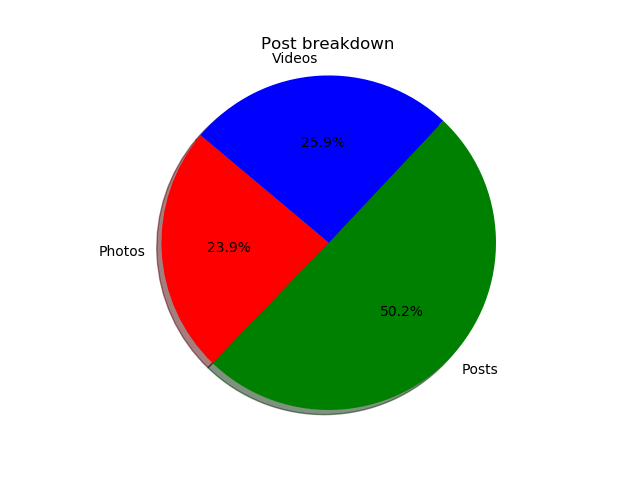
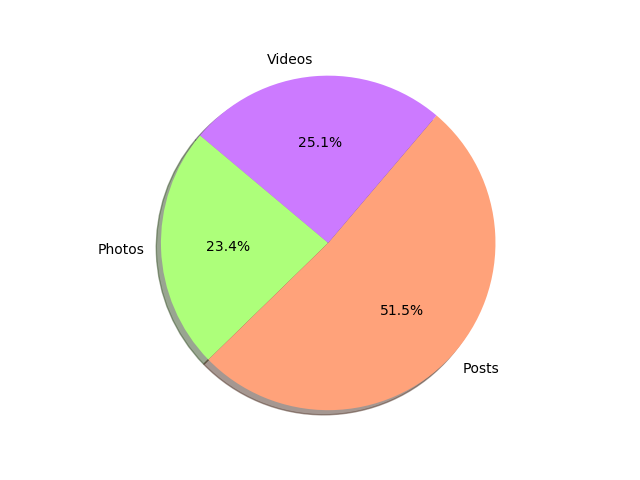
final

diff --git a/flask/app/templates/home.html b/flask/app/templates/home.html
@@ -5,24 +5,82 @@
         <div class = "container">
             <div class="row">
                 <div class = "col-8 text-left">
-                    <h1 class="text-left">Facebook Page Data Analysis</h1>
+                    <h1 class="text-left text-dark">Facebook Page Data Analysis</h1>
                     <br>
-                    <h5 class="text-left">leveraging Python and pandas for in depth analysis of a facebook page</h5>
-                    <h5 class="text-left">Understanding a page using different data, post type breakdown, engagement by month breakdown and etc</h5>
-                    <!-- <ul><h5>list</h5>
+                    <h5 class="text-left text-secondary">Leveraging Python for in depth analysis of a facebook page</h5>
+                    <br>
+                    <h5 class="text-secondary">Understanding a page using </h5>
+                    <br>
+                    <ul>
+                    	<Li><h5 class="text-left text-secondary">Post type break down</h5></Li>
+                        <br>
+                    	<Li><h5 class="text-left text-secondary">Engagement by month</h5></Li>
+                    	
                     </ul>
-                    	<Li>asdsad</Li>
-                    	<Li>asdsad</Li>
-                    	<Li>asdsad</Li>
-                    	<Li>asdsad</Li> -->
 
                 </div>
                 <div class = "col-4 ">
                     <img src="{{url_for('static', filename='fb.png')}}" class="img-responsive fit-image float-right">
-                </div>
-               
-                    
+                </div>     
             </div>
+
         </div>
+
     </header>
+
+    <div class="container">
+        <div class="row align-items-center row-content">
+                <div class="media">
+                    
+                    <div class = "col-12 col-sm-4 col-md-3">
+                        <h3>See through the trend</h3>
+                    </div>
+                    <div class="media-body">
+                        <div class = "col col-sm col-md">
+                            <h2>Post Type Breakdown </h2>
+                            <p>Understand what types of posts the account post more, get hints on the next popular format of media. Is it going to be pure text, photo or video? </p>
+                        </div>
+                    </div>
+                    <img class="d-flex mr-3 img-thumbnail align-self-center img-fluid col-3" src = "{{url_for('static', filename='images/ex1.png')}}">
+
+                </div>
+            </div>
+
+            <div class="row align-items-center row-content">
+                <div class="media">
+                    
+                    
+                    <div class = "col-12 col-sm-4 col-md-3">
+                        <h3>Understand your stats</h3>
+                    </div>
+                    <div class="media-body">
+                        <div class = "col col-sm col-md">
+                            <h2>Engagement Rate <span class="badge badge-danger">Hot</span></h2>
+                            <p>Compare your page to another brand's page and see who does it better. Understand the competition using the amount of likes, comments and shares received </p>
+                        </div>
+                    </div>
+                    <img class="d-flex mr-3 img-thumbnail align-self-center img-fluid col-3" src = "{{url_for('static', filename='images/ex2.png')}}">
+
+                </div>
+            </div>
+
+            <div class="row align-items-center row-content">
+                <div class="media">
+                    
+                    
+                    <div class = "col-12 col-sm-4 col-md-3">
+                        <h3>Compete with other brands</h3>
+                    </div>
+                    <div class="media-body">
+                        <div class = "col col-sm col-md">
+                            <h2>Data Comparision <span class="badge badge-primary">New</span></h2>
+                            <p>Compare your page to another brand's page and see who does it better. Understand the competition using the amount of likes, comments and shares received </p>
+                        </div>
+                    </div>
+                    <img class="d-flex mr-3 img-thumbnail align-self-center img-fluid col-3" src = "{{url_for('static', filename='images/ex3.png')}}">
+
+                </div>
+            </div>
+
+    </div>
 {% endblock %}

diff --git a/flask/app/templates/base.html b/flask/app/templates/base.html
@@ -1,10 +1,6 @@
 <html>
     <head>
-        {% if title %}
-        <title>{{ title }} - microblog</title>
-        {% else %}
-        <title>microblog</title>
-        {% endif %}
+        <title>FB Scrapper</title>
         <link rel="stylesheet" href="https://cdn.pydata.org/bokeh/release/bokeh-1.0.4.min.css" type="text/css" />
         <link rel="stylesheet" href="{{ url_for('static', filename='css/style.css') }}">
         <link rel="stylesheet" href="{{ url_for('static', filename='css/bootstrap.css') }}">
@@ -30,7 +26,7 @@
             <a href="/activity">Linkedin</a>
             <a href="/graphs">About</a>
         </div> -->
-        <nav class="navbar navbar-expand-lg navbar-light bg-secondary text-white">
+        <nav class="navbar navbar-expand-lg navbar-light text-white">
 
           <a class="navbar-brand" href="/">  Facebook Data Analysis </a>
           <button class="navbar-toggler" type="button" data-toggle="collapse" data-target="#navbarSupportedContent" aria-controls="navbarSupportedContent" aria-expanded="false" aria-label="Toggle navigation">
@@ -46,12 +42,12 @@
               </li>
 
               <li class="nav-item">
-                <a class="nav-link text-white" href="#">Multiple Accounts</a>
+                <a class="nav-link text-white" href="/multiple">Multiple Accounts</a>
               </li>
 
             </ul>
 
-            <p class="my-2 my-lg-0">Made by Anthony and Christian</p>
+            <p class="my-2 my-lg-0">Made by Christian and Anthony</p>
 
 
 

diff --git a/flask/app/templates/multiple.html b/flask/app/templates/multiple.html
@@ -1,0 +1,55 @@
+{% extends "base.html" %}
+{% block content %}
+
+<div  class = "text-dark">
+    <div id="loading">
+        <div class="container">
+            <div class="text-center">
+                <IMG SRC="{{url_for('static', filename='loading.gif')}}" class = "img-fluid"id = "load-img">
+            </div>
+        </div>
+    </div>
+    <div id="content">
+        <h1>Multiple Account Comparison</h1>
+
+        <br>
+
+        <br>
+        
+
+        <form action="" method="post" novalidate>
+            {{ form.hidden_tag() }}
+            <p>
+                
+                {{ form.date(size=32) }}<br>
+                <br>
+                {{ form.date(size=32) }}<br>
+                <br>
+                {{ form.date(size=32) }}<br>
+            </p>
+            <div onclick="submit()">
+                <button type=submit class="btn btn-outline-success" >submit
+                </button>
+            </div>
+        </form>
+
+        <br>
+
+        <img src="{{url_for('static', filename='fb.png')}}" class="center" />
+
+
+    </div>
+
+    <p></p>
+    <br>
+    <br>
+    <br>
+    <br>
+    <br>
+    <br>
+
+</div>
+
+    	
+
+{% endblock %}

diff --git a/flask/app/templates/FB_result.html b/flask/app/templates/FB_result.html
@@ -3,11 +3,12 @@
 {% block content %}
 
 
-	<h1>The message is the following</h1>
-	<h3>{{info}}</h3>
+	<h1 class="text-dark">Data result for</h1>
+	<h3 class="text-secondary">{{info}}</h3>
+	<img src="{{url_for('static', filename='images/likes.png')}}" class="center" />
 	<img src="{{url_for('static', filename='images/comments_shares.png')}}" class="center" />
-	<img src="{{url_for('static', filename='images/ex2.png')}}" class="center" />
-	<img src="{{url_for('static', filename='images/ex3.jpg')}}" class="center" />
+	<img src="{{url_for('static', filename='images/post_type_breakdown.png')}}" class="center" />
+	
 	
 
 

diff --git a/flask/app/static/css/style.css b/flask/app/static/css/style.css
@@ -73,8 +73,25 @@ object-fit: cover;
 height: 300px; /* only if you want fixed height */
 }
 
+.navbar-light {
+  background-color: #28a3e0
+}
 
 
+
+.row-content {
+    margin:0px auto;
+    padding: 50px 0px 50px 0px;
+    border-bottom: 1px ridge;
+    min-height:400px;
+}
+
+.content {
+    padding: 5%;
+    padding-top: 0%;
+    padding-left: 10%;
+    padding-right: 10%;
+}
 
 
 

diff --git a/flask/app/FB_scrape.py b/flask/app/FB_scrape.py
@@ -22,7 +22,7 @@ def scrape(link):
     print("Scrapping!!!")
 
     chrome_options = selenium.webdriver.ChromeOptions()
-    chrome_options.add_argument('--headless')
+    # chrome_options.add_argument('--headless')
     chrome_options.add_argument('--no-sandbox')
     chrome_options.add_argument('--disable-dev-shm-usage')
     browser = Chrome('app/chromedriver', options=chrome_options) 
@@ -34,7 +34,7 @@ def scrape(link):
     print("=====Done loading=====")
 
 
-    t_end = time.time() + 1*5
+    t_end = time.time() + 1*90
     while time.time() < t_end:
         browser.execute_script("window.scrollTo(0,document.body.scrollHeight);")
         time.sleep(2)
@@ -103,12 +103,29 @@ def scrape(link):
     df= pd.DataFrame({"date":date,"content_type":content_type, "likes":likes, "comments":comments, "shares":shares})
 
     df.date = pd.to_datetime(df.date)
-    # df.likes = pd.to_numeric(df.likes)
+    df.likes = pd.to_numeric(df.likes)
     df.comments = pd.to_numeric(df.comments.str[0])
     df.shares = pd.to_numeric(df.shares.str[0])
     df.fillna(0, inplace = True)
 
     df = df[df.date.dt.year==2019]
+
+
+    post_data = df
+    num_photo = post_data.groupby('content_type').content_type.count()[0]
+    num_post = post_data.groupby('content_type').content_type.count()[1]
+    num_video = post_data.groupby('content_type').content_type.count()[2]
+    labels = ['Photos', 'Posts', 'Videos']
+    sizes = [num_photo, num_post, num_video]
+    colors = ['#86ffd5', '#ffd586', '#ff86d9']
+    explode = (0, 0, 0)
+    # plt.title('Post breakdown')
+    plt.pie(sizes, explode=explode, labels=labels, colors=colors,
+    autopct='%1.1f%%', shadow=True, startangle=140)
+    plt.axis('equal')
+    plt.savefig('app/static/images/post_type_breakdown.png')
+    plt.clf()
+
 
 
     df.groupby(df.date.dt.month).sum()[["comments","shares"]].plot()
@@ -117,6 +134,13 @@ def scrape(link):
     plt.ylabel("Amount", size=15);
 
     plt.savefig("app/static/images/comments_shares.png")
+    plt.clf()
+
+    df.groupby(df.date.dt.month).sum()[["likes"]].plot()
+    plt.title("Total likes by Month", size=15)
+    plt.xlabel("Month", size=15)
+    plt.ylabel("# Likes", size=15);
+    plt.savefig("app/static/images/likes.png")
     plt.clf()
 
 

diff --git a/Analysis/fb_analysis.py b/Analysis/fb_analysis.py
@@ -8,8 +8,8 @@ import matplotlib.patches as mpatches
 #years should all be the last two digits
 
 
-#generate pie chart
-def post_type_breakdown_graph(url, year_need):
+
+def generate_graphs(url, year):
   post_data = scrape_FB(url)
   print(post_data)
   post_data.dropna(inplace = True)
@@ -23,9 +23,54 @@ def post_type_breakdown_graph(url, year_need):
 
   labels = ['Photos', 'Posts', 'Videos']
   sizes = [num_photo, num_post, num_video]
-  colors = ['red', 'green', 'blue']
+  colors = ['#adff7a', '#ffa27a', '#cc7aff']
   explode = (0, 0, 0)
-  plt.title('Post breakdown', year)
+  # plt.title('Post breakdown', year)
+  plt.pie(sizes, explode=explode, labels=labels, colors=colors,
+  autopct='%1.1f%%', shadow=True, startangle=140)
+  plt.axis('equal')
+  plt.savefig('post_type_breakdown.png')
+
+
+  df= post_data
+
+  df.date = pd.to_datetime(df.date)
+  # df.likes = pd.to_numeric(df.likes)
+  df.comments = pd.to_numeric(df.comments)
+  df.shares = pd.to_numeric(df.shares)
+  df.fillna(0, inplace = True)
+
+  df = df[df.date.dt.year==2019]
+
+
+  df.groupby(df.date.dt.month).sum()[["comments","shares"]].plot()
+  plt.title("Comments and Shares by Month", size=15)
+  plt.xlabel("Month", size=15)
+  plt.ylabel("Amount", size=15);
+
+  plt.savefig("comments_shares.png")
+  plt.clf()
+
+
+
+#generate pie chart
+def post_type_breakdown_graph(url, year):
+  post_data = scrape_FB(url)
+  print(post_data)
+  post_data.dropna(inplace = True)
+  num_photo = post_data.groupby('content_type').content_type.count()[0]
+  num_post = post_data.groupby('content_type').content_type.count()[1]
+  num_video = post_data.groupby('content_type').content_type.count()[2]
+   
+    # print("number of videos " , num_video)
+    # print("number of posts " , num_post)
+    # print("number of photos " , num_photo)
+
+  labels = ['Photos', 'Posts', 'Videos']
+  sizes = [num_photo, num_post, num_video]
+  colors = ['#adff7a', '#ffa27a', '#cc7aff']
+  explode = (0, 0, 0)
+  # plt.title('Post breakdown', year)
   plt.pie(sizes, explode=explode, labels=labels, colors=colors,
   autopct='%1.1f%%', shadow=True, startangle=140)
   plt.axis('equal')

diff --git a/Analysis/fb_engage.py b/Analysis/fb_engage.py
@@ -95,10 +95,10 @@ def scrape_FB(url):
     df['month'] = df['date'].apply(lambda x : getMonth(x))
     df['day'] = df['date'].apply(lambda x : getDay(x))
     df['year'] = df['date'].apply(lambda x : getYear(x))
-    del df['date']
+    
     df['comments'] = df['comments'].str.split(" ", n = 1, expand = True)
     df['shares'] = df['shares'].str.split(" ", n = 1, expand = True)
-    df = df [['month', 'day', 'year', 'content_type', 'likes', 'comments', 'shares']]
+    df = df [['month', 'day', 'year', 'content_type', 'likes', 'comments', 'shares', 'date']]
     return df
 
 

diff --git a/flask/app/routes.py b/flask/app/routes.py
@@ -26,6 +26,17 @@ def index():
     return render_template('index.html', title='Home', form=form)
 
 
+@app.route('/multiple', methods=['GET','POST'])
+def multiple():
+    form = LoginForm()
+    if form.validate_on_submit():
+    	info = form.date.data
+    	scrape(info)
+    	time.sleep(1)
+    	return render_template('FB_result.html', info = info)
+
+    return render_template('multiple.html', title='Home', form=form)
+
 @app.route('/', methods=['GET','POST'])
 def home():
 	return render_template('home.html')
